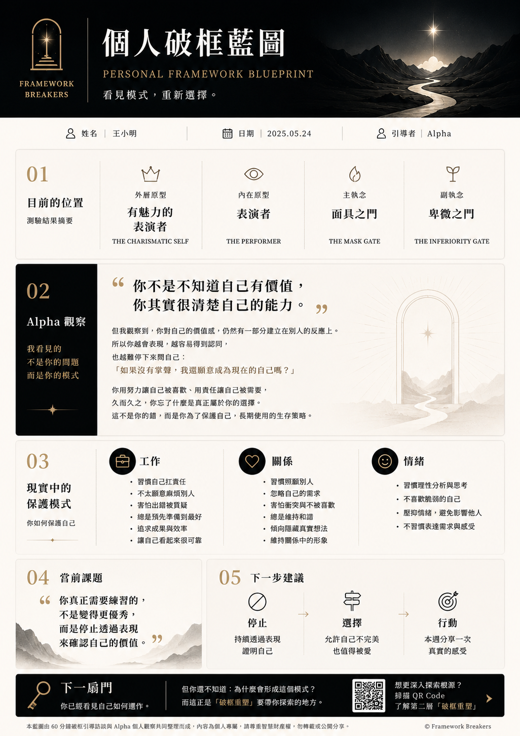
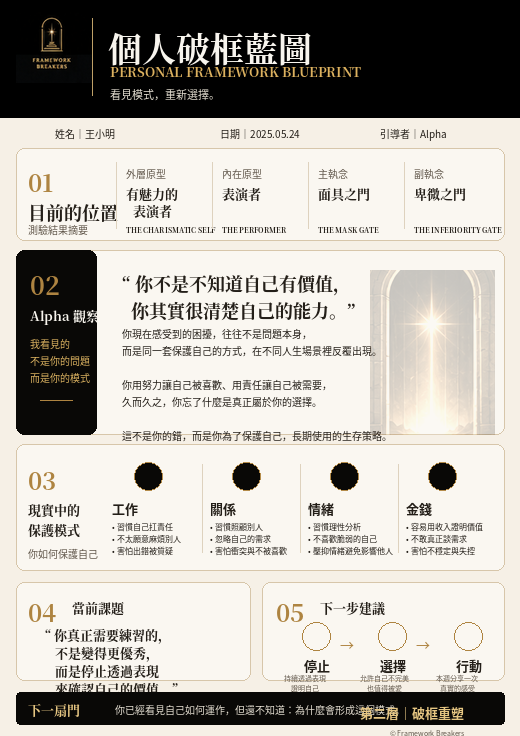
framework_guidance_v22_blueprint_update_upload
《個人破框藍圖》預覽圖更新
02 改為「Alpha觀察｜模式如何反覆出現」
03 保護模式新增「金錢」面向
破框引導頁文案同步更新
修正頁面中一處重複區塊結構
保留現有 Hero、Logo、預約表單與 Google Form 串接

diff --git a/src/pages/FrameworkGuidance.jsx b/src/pages/FrameworkGuidance.jsx
@@ -114,7 +114,7 @@ export default function FrameworkGuidance() {
 
   const blueprintItems = [
     ["Alpha 觀察", "看見的不是你的問題，而是你的模式。", Eye],
-    ["現實中的保護模式", "從工作、關係、情緒三個面向，看見你如何保護自己。", Lock],
+    ["現實中的保護模式", "從工作、關係、情緒、金錢四個面向，看見你如何保護自己。", Lock],
     ["當前課題", "找出你真正需要練習、突破的關鍵課題。", KeyRound],
     ["下一步建議", "具體的停止、選擇、行動練習，幫助你開始改變。", ArrowRight],
   ];
